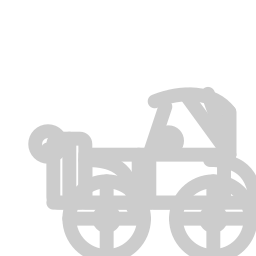
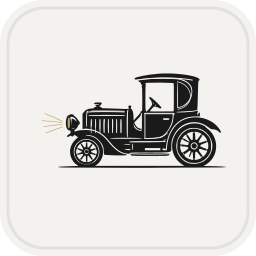
release: v2.81.210

diff --git a/index.html b/index.html
@@ -4,6 +4,8 @@
     <meta charset="UTF-8" />
     <meta name="viewport" content="width=device-width, initial-scale=1.0" />
     <link rel="icon" type="image/svg+xml" href="/favicon.svg" />
+    <link rel="alternate icon" href="/icon.ico" />
+    <link rel="apple-touch-icon" href="/icon-512.png" />
     <title>疆域 GSYEN · AI 智能工作坊</title>
     <meta name="description" content="疆域 GSYEN — 面向品牌与创业者的 AI 智能平台。缈缈 AI 助理、多模型路由（疆域·思/疆域·轻）、穹弯会员生态，为大中华区高净值品牌提供 AI 赋能。" />
     <meta name="keywords" content="疆域,GSYEN,缈缈AI,疆域思,疆域轻,穹弯,AI助理,大模型,三元楼,老陈预测" />